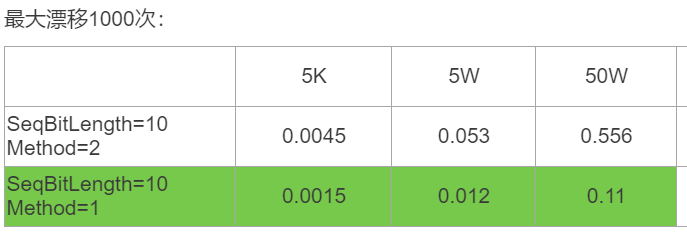
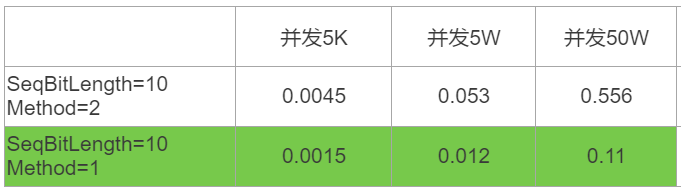
editreadme

diff --git a/README.md b/README.md
@@ -101,6 +101,9 @@
 4.以上所有工作节点，均拥有 50W/0.1s 最大处理速度。
 
 
+## 性能测试
+<img src="https://gitee.com/yitter/idgenerator/blob/master/%E6%80%A7%E8%83%BD%E6%95%B0%E6%8D%AE/%E6%80%A7%E8%83%BD%E6%B5%8B%E8%AF%95.png" width="382px;" />
+
 ## 代码示例
 
 #### 雪花漂移算法
